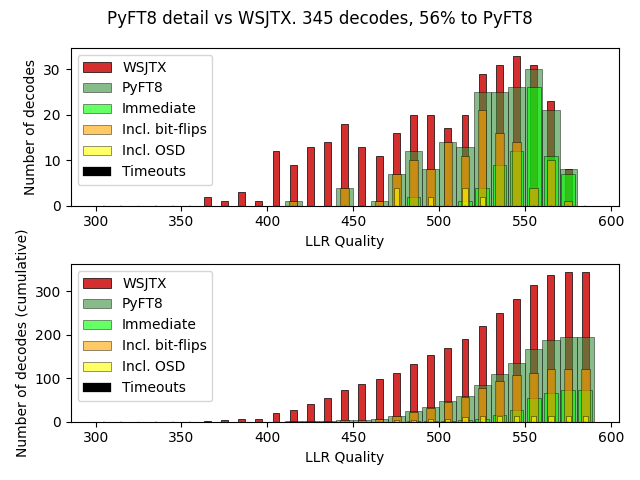
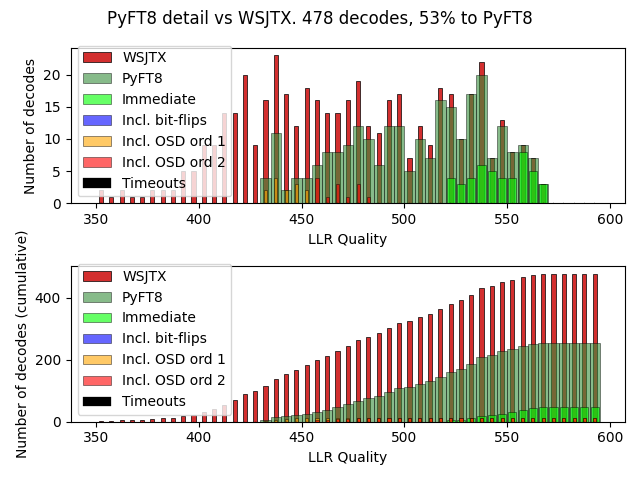
tuning snapshot

diff --git a/PyFT8/cycle_manager.py b/PyFT8/cycle_manager.py
@@ -14,9 +14,9 @@ import os
 
 eps = 1e-12
 LLR_SHAPING = {'final_sd':3.5, 'clip':3.9}
-LLR_QUALITY = {'abs_min':415, 'bitflip_range':[0,435], 'osd_range':[435, 460, 475]}
-BITFLIPS = { 'width':10, 'max_flips':2}
-STALL_CRITERIA = {'Max_its':10, "Max_same":3}
+LLR_QUALITY = {'abs_min':405, 'bitflip_range':[405,430], 'osd_range':[430, 455, 485]}
+BITFLIPS = { 'width':40, 'max_flips':1}
+STALL_CRITERIA = {'Max_its':10, "Max_same":2}
 
 CHECK_VARS_6 = np.array([[4,31,59,92,114,145],[5,23,60,93,121,150],[6,32,61,94,95,142],[5,31,63,96,125,137],[8,34,65,98,138,145],[9,35,66,99,106,125],[11,37,67,101,104,154],[12,38,68,102,148,161],[14,41,58,105,122,158],[0,32,71,105,106,156],[15,42,72,107,140,159],[10,43,74,109,120,165],[7,45,70,111,118,165],[18,37,76,103,115,162],[19,46,69,91,137,164],[1,47,73,112,127,159],[21,46,57,117,126,163],[15,38,61,111,133,157],[22,42,78,119,130,144],[19,35,62,93,135,160],[13,30,78,97,131,163],[2,43,79,123,126,168],[18,45,80,116,134,166],[11,49,60,117,118,143],[12,50,63,113,117,156],[23,51,75,128,147,148],[20,53,76,99,139,170],[34,81,132,141,170,173],[13,29,82,112,124,169],[3,28,67,119,133,172],[51,83,109,114,144,167],[6,49,80,98,131,172],[22,54,66,94,171,173],[25,40,76,108,140,147],[26,39,55,123,124,125],[17,48,54,123,140,166],[5,32,84,107,115,155],[8,53,62,130,146,154],[21,52,67,108,120,173],[2,12,47,77,94,122],[30,68,132,149,154,168],[4,38,74,101,135,166],[1,53,85,100,134,163],[14,55,86,107,118,170],[22,33,70,93,126,152],[10,48,87,91,141,156],[28,33,86,96,146,161],[21,56,84,92,139,158],[27,31,71,102,131,165],[0,25,44,79,127,146],[16,26,88,102,115,152],[50,56,97,162,164,171],[20,36,72,137,151,168],[15,46,75,129,136,153],[2,23,29,71,103,138],[8,39,89,105,133,150],[17,41,78,143,145,151],[24,37,64,98,121,159],[16,41,74,128,169,171]], dtype = np.int16)
 CHECK_VARS_7 = np.array([[3,30,58,90,91,95,152],[7,24,62,82,92,95,147],[4,33,64,77,97,106,153],[10,36,66,86,100,138,157],[7,39,69,81,103,113,144],[13,40,70,87,101,122,155],[16,36,73,80,108,130,153],[44,54,63,110,129,160,172],[17,35,75,88,112,113,142],[20,44,77,82,116,120,150],[18,34,58,72,109,124,160],[6,48,57,89,99,104,167],[24,52,68,89,100,129,155],[19,45,64,79,119,139,169],[0,3,51,56,85,135,151],[25,50,55,90,121,136,167],[1,26,40,60,61,114,132],[27,47,69,84,104,128,157],[11,42,65,88,96,134,158],[9,43,81,90,110,143,148],[29,49,59,85,136,141,161],[9,52,65,83,111,127,164],[27,28,83,87,116,142,149],[14,57,59,73,110,149,162]], dtype = np.int16)
@@ -103,7 +103,7 @@ class Spectrum:
             left = np.clip(i-2,0,len(cands))
             right = np.clip(i+3,0,len(cands))
             potential_neighbours = cands[left:i] + cands[i+1:right]
-            c.neighbours = [n for n in potential_neighbours if np.abs(n.fHz - c.fHz) < 3]
+            c.neighbours = [n for n in potential_neighbours if np.abs(n.f0_idx - c.f0_idx) == 1]
 
         return cands
 
@@ -225,7 +225,7 @@ class Candidate:
         
     def attempt_reduce_ncheck(self):
 
-        if(self.ncheck >0 and self.n_bitflip_calls <1):
+        if(self.ncheck >0 and self.n_bitflip_calls <1 and self.ldpc_iters > 1):
             bfrng = LLR_QUALITY['bitflip_range']
             if(self.llr_quality < bfrng[1] and self.llr_quality > bfrng[0]):
                 self.flip_bits()
@@ -247,9 +247,9 @@ class Candidate:
                 self.osd_runs +=1
                 if(self.llr_quality < osdrng[1]):
                     code = "Q"
-                    codeword_bits, metric = osd_decode_minimal(self.llr.copy(), G, order=1, L=25)
+                    codeword_bits, metric = osd_decode_minimal(self.llr.copy(), G, order=1, L=30)
                 else:
-                    codeword_bits, metric = osd_decode_minimal(self.llr.copy(), G, order=2, L=4)
+                    codeword_bits, metric = osd_decode_minimal(self.llr.copy(), G, order=2, L=6)
                     code = "QQ"
                 if check_crc_codeword_list(codeword_bits):
                     llr = np.array([1 if(b==1) else -1 for b in codeword_bits])

diff --git a/tests/test_plot.py b/tests/test_plot.py
@@ -21,7 +21,7 @@ with open(f"compare_wsjtx.csv", "r") as f:
             if("#" in l): fg.append(q)
             if(not "#" in l): ft.append(q)
 
-bins = [300 + 10*b for b in range(30)]
+bins = [350 + 5*b for b in range(50)]
 
 np = len(p)
 nt = len(w)
@@ -35,10 +35,10 @@ for i in [0,1]:
     axes[i].hist(pi, bins = bins, label = "Immediate", rwidth=0.8,
             cumulative = i, color = 'lime', alpha = 0.6, lw=0.5, edgecolor = "black")
     axes[i].hist(pb, bins = bins, label = "Incl. bit-flips", rwidth=0.5,
+            cumulative = i, color = 'blue', alpha = 0.6, lw=0.5, edgecolor = "black")
+    axes[i].hist(po, bins = bins, label = "Incl. OSD ord 1", rwidth=0.3,
             cumulative = i, color = 'orange', alpha = 0.6, lw=0.5, edgecolor = "black")
-    axes[i].hist(po, bins = bins, label = "Incl. OSD", rwidth=0.3,
-            cumulative = i, color = 'orange', alpha = 0.6, lw=0.5, edgecolor = "black")
-    axes[i].hist(po2, bins = bins, label = "Incl. OSD step 2", rwidth=0.3,
+    axes[i].hist(po2, bins = bins, label = "Incl. OSD ord 2", rwidth=0.3,
             cumulative = i, color = 'red', alpha = 0.6, lw=0.5, edgecolor = "black")
     axes[i].hist(ft, bins = bins, label = "Timeouts", rwidth=0.1,
             cumulative = i, color = 'black', alpha = 1.0, lw=0.2, edgecolor = "black")
